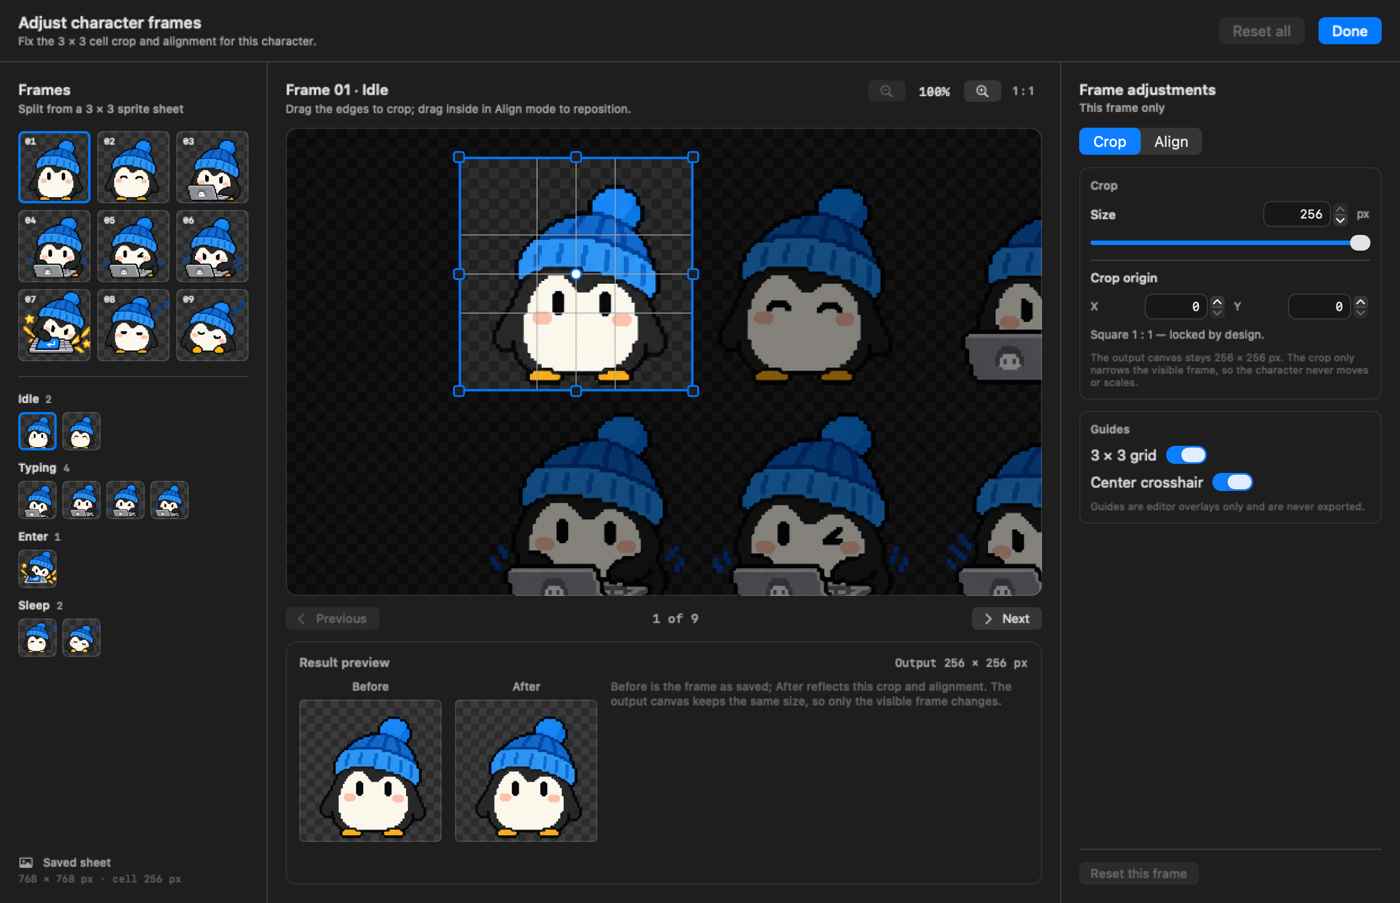
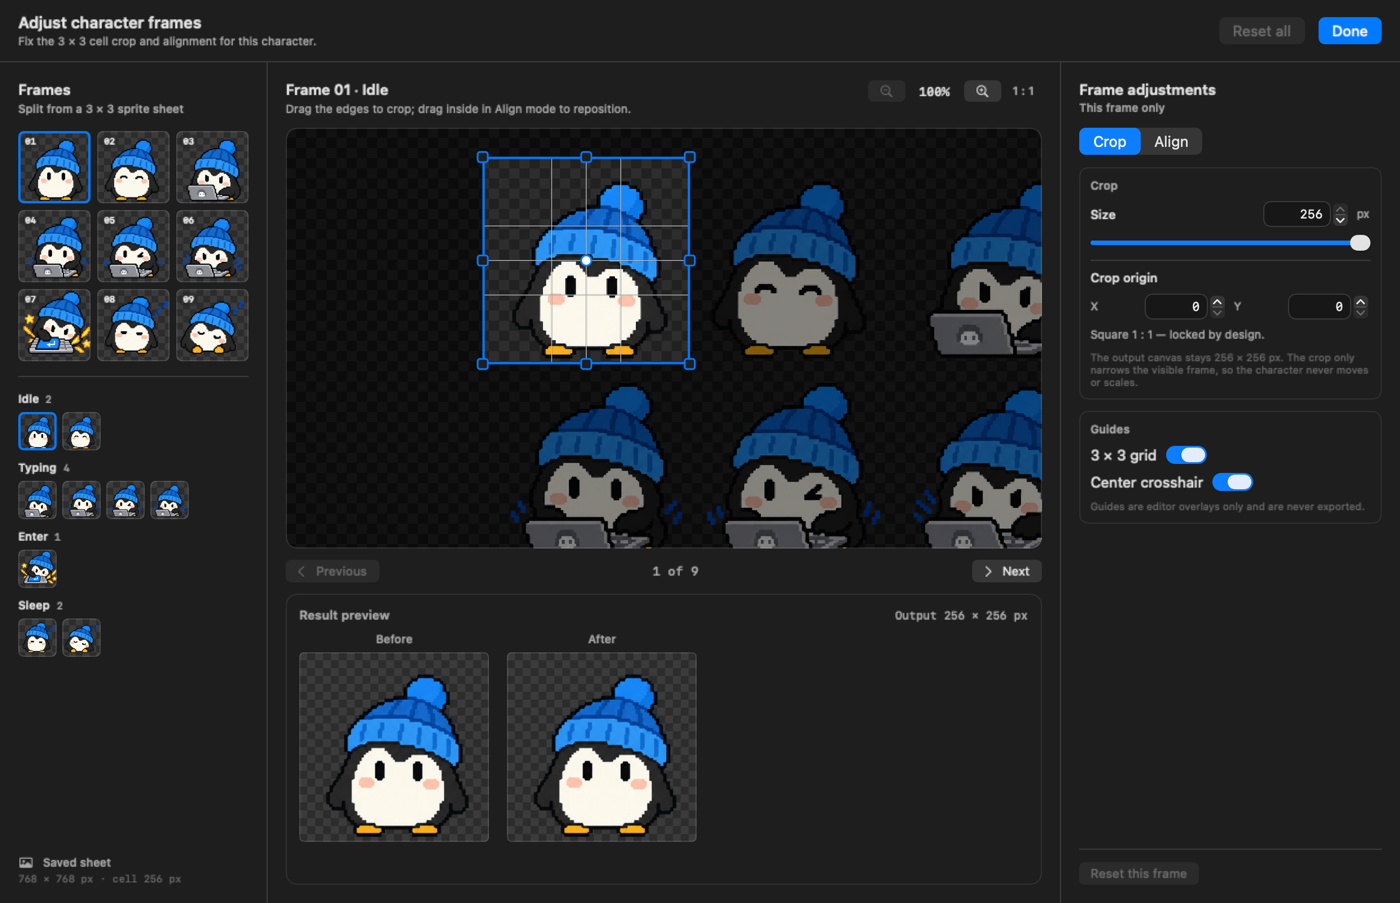
feat(character): enlarge Before/After previews and remove the redundant hint (#151)
- Drop the explanatory paragraph under the result preview; the Before/After
  labels, edited badge and inline neighbour warning already explain the state.
- Grow both preview cards from 126 to 168 pt and adjust the fixed editor height
  budget so the canvas keeps its usable minimum at 1240×800 and 1040×700.
- Remove the now-unused frameEditor.previewHint localization key.
- Refresh the editor captures for the new layout.

Verified: format, localization check, SwiftLint strict, safety, 192 app tests,
Release build.

Changed region(s): [[0.1843, 0.155, 0.7679, 0.9302]]

diff --git a/Sources/WaddlyApp/FrameEditorCenterColumn.swift b/Sources/WaddlyApp/FrameEditorCenterColumn.swift
@@ -195,7 +195,7 @@ private struct FrameEditorResultPreview: View {
                 .font(.system(size: 10, weight: .medium, design: .monospaced))
                 .foregroundStyle(.secondary)
             }
-            HStack(alignment: .top, spacing: 12) {
+            HStack(alignment: .top, spacing: 16) {
                 FrameEditorPreviewCard(
                     title: localization.string(for: .frameEditorBefore),
                     image: model.beforeImage(for: model.selectedSlot),
@@ -224,10 +224,6 @@ private struct FrameEditorResultPreview: View {
                         .font(.caption2)
                         .foregroundStyle(.secondary)
                     }
-                    Text(localization.string(for: .frameEditorPreviewHint))
-                        .font(.caption2)
-                        .foregroundStyle(.tertiary)
-                        .fixedSize(horizontal: false, vertical: true)
                     Spacer(minLength: 0)
                 }
                 .frame(maxWidth: .infinity, alignment: .leading)
@@ -248,7 +244,7 @@ private struct FrameEditorResultPreview: View {
 
 @MainActor
 private struct FrameEditorPreviewCard: View {
-    static let cardSide: CGFloat = 126
+    static let cardSide: CGFloat = 168
 
     let title: String
     let image: NSImage?

diff --git a/Sources/WaddlyApp/LocalizationKey.generated.swift b/Sources/WaddlyApp/LocalizationKey.generated.swift
@@ -86,7 +86,6 @@ enum LocalizationKey: String, CaseIterable {
     case frameEditorOriginY = "frameEditor.originY"
     case frameEditorOriginYA11y = "frameEditor.originYA11y"
     case frameEditorOutputSizeFormat = "frameEditor.outputSizeFormat"
-    case frameEditorPreviewHint = "frameEditor.previewHint"
     case frameEditorPreviousFrame = "frameEditor.previousFrame"
     case frameEditorResetAll = "frameEditor.resetAll"
     case frameEditorResetFrame = "frameEditor.resetFrame"

diff --git a/Sources/WaddlyApp/CharacterFrameEditor.swift b/Sources/WaddlyApp/CharacterFrameEditor.swift
@@ -15,7 +15,7 @@ enum FrameEditorMetrics {
     static let compactRailWidth: CGFloat = 58
     static let outerPadding: CGFloat = 16
     /// Header, navigation, result preview, gaps and vertical padding around the editing canvas.
-    static let centerReservedHeight: CGFloat = 330
+    static let centerReservedHeight: CGFloat = 372
     static let minimumCanvasHeight: CGFloat = 240
 
     static func resolvedSize(for screen: NSScreen? = NSScreen.main) -> NSSize {
